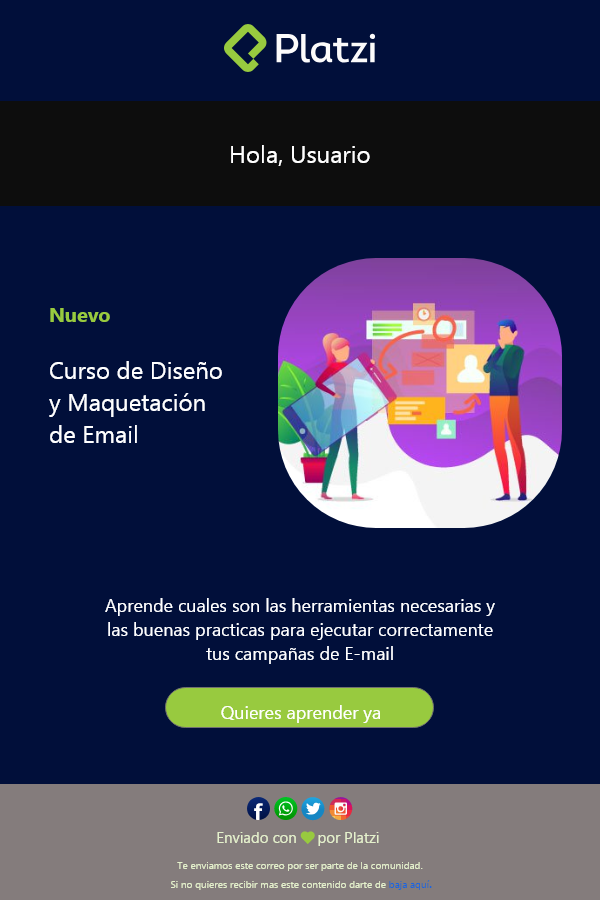
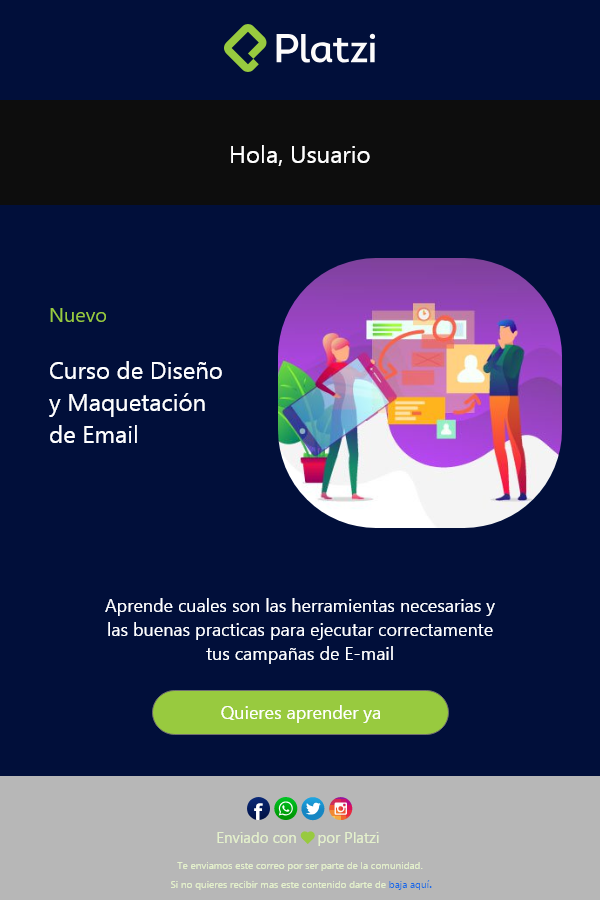
asignar footer y quitar espacios de la tabla y las celdas tambien se quito el borde

Changed region(s): [[0.0, 0.7467, 1.0, 1.0], [0.09, 0.3422, 0.18, 0.3733]]

diff --git a/html/template_correo.html b/html/template_correo.html
@@ -3,8 +3,8 @@
 <head>
     <meta charset="UTF-8">
 </head>
-<body>
-    <table border="1">
+<body style="margin: 0 auto">
+    <table width="100%" align="center" border="0" cellpadding="0" cellspacing="0">
         
         <!--Header-->   
         <tr>
@@ -71,19 +71,36 @@
                         <td>
                            <table border="1">
                            <tr>
-                            <td>fb</td>
-                            <td>tw</td>
-                            <td>wt</td>
-                            <td>ig</td>
+                                <td>
+                                   <a href="https://www.facebook.com/platzi">
+                                    <img src="correo2/facebbok.png" alt="Facebook">
+                                    </a>
+                                </td>
+                                <td>
+                                   <a href="https://web.whatsapp.com/">
+                                    <img src="correo2/whatsapp.png" alt="Whatsapp">
+                                    </a>
+                                </td>
+                                <td>
+                                   <a href="https://twitter.com/platzi">
+                                    <img src="correo2/twitter.png" alt="Twitter">
+                                    </a>
+                                </td>
+                                <td>
+                                    <a href="https://www.instagram.com/platzi/">
+                                    <img src="correo2/instagram.png" alt="Intagram">
+                                    </a>
+                                </td>
                             </tr>
                         </table>
                         </td>
                     </tr>
                     <tr>
-                        <td>Mensaje</td>
+                        <td>Enviado con por 💚 Platz</td>
                     </tr>
                     <tr>
-                        <td>Legal</td>
+                        <td>Te enviamos este correo por ser parte de la comunidad.
+ Si no quieres recibir mas este contenido darte de baja aquí.</td>
                     </tr>    
                 </table>
             </td>
